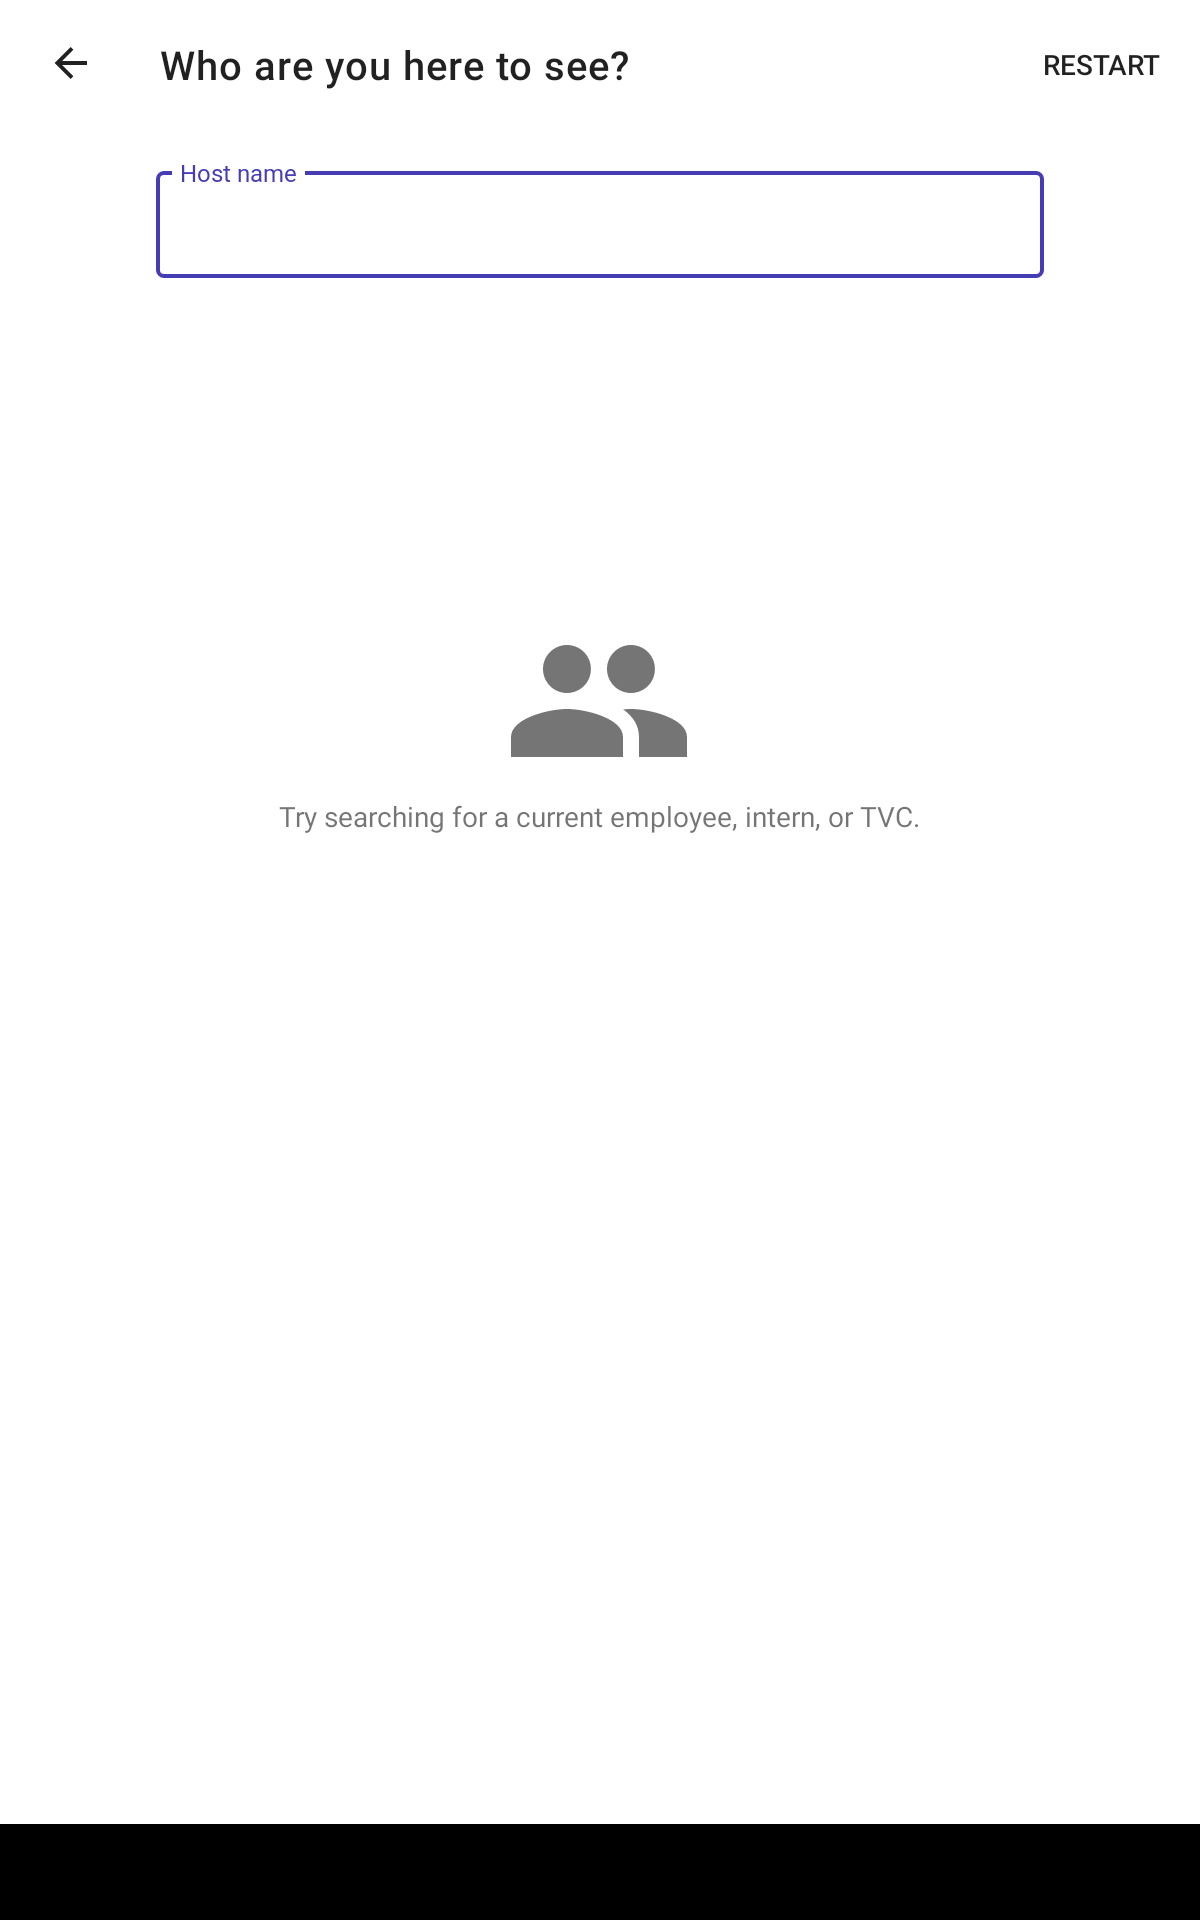
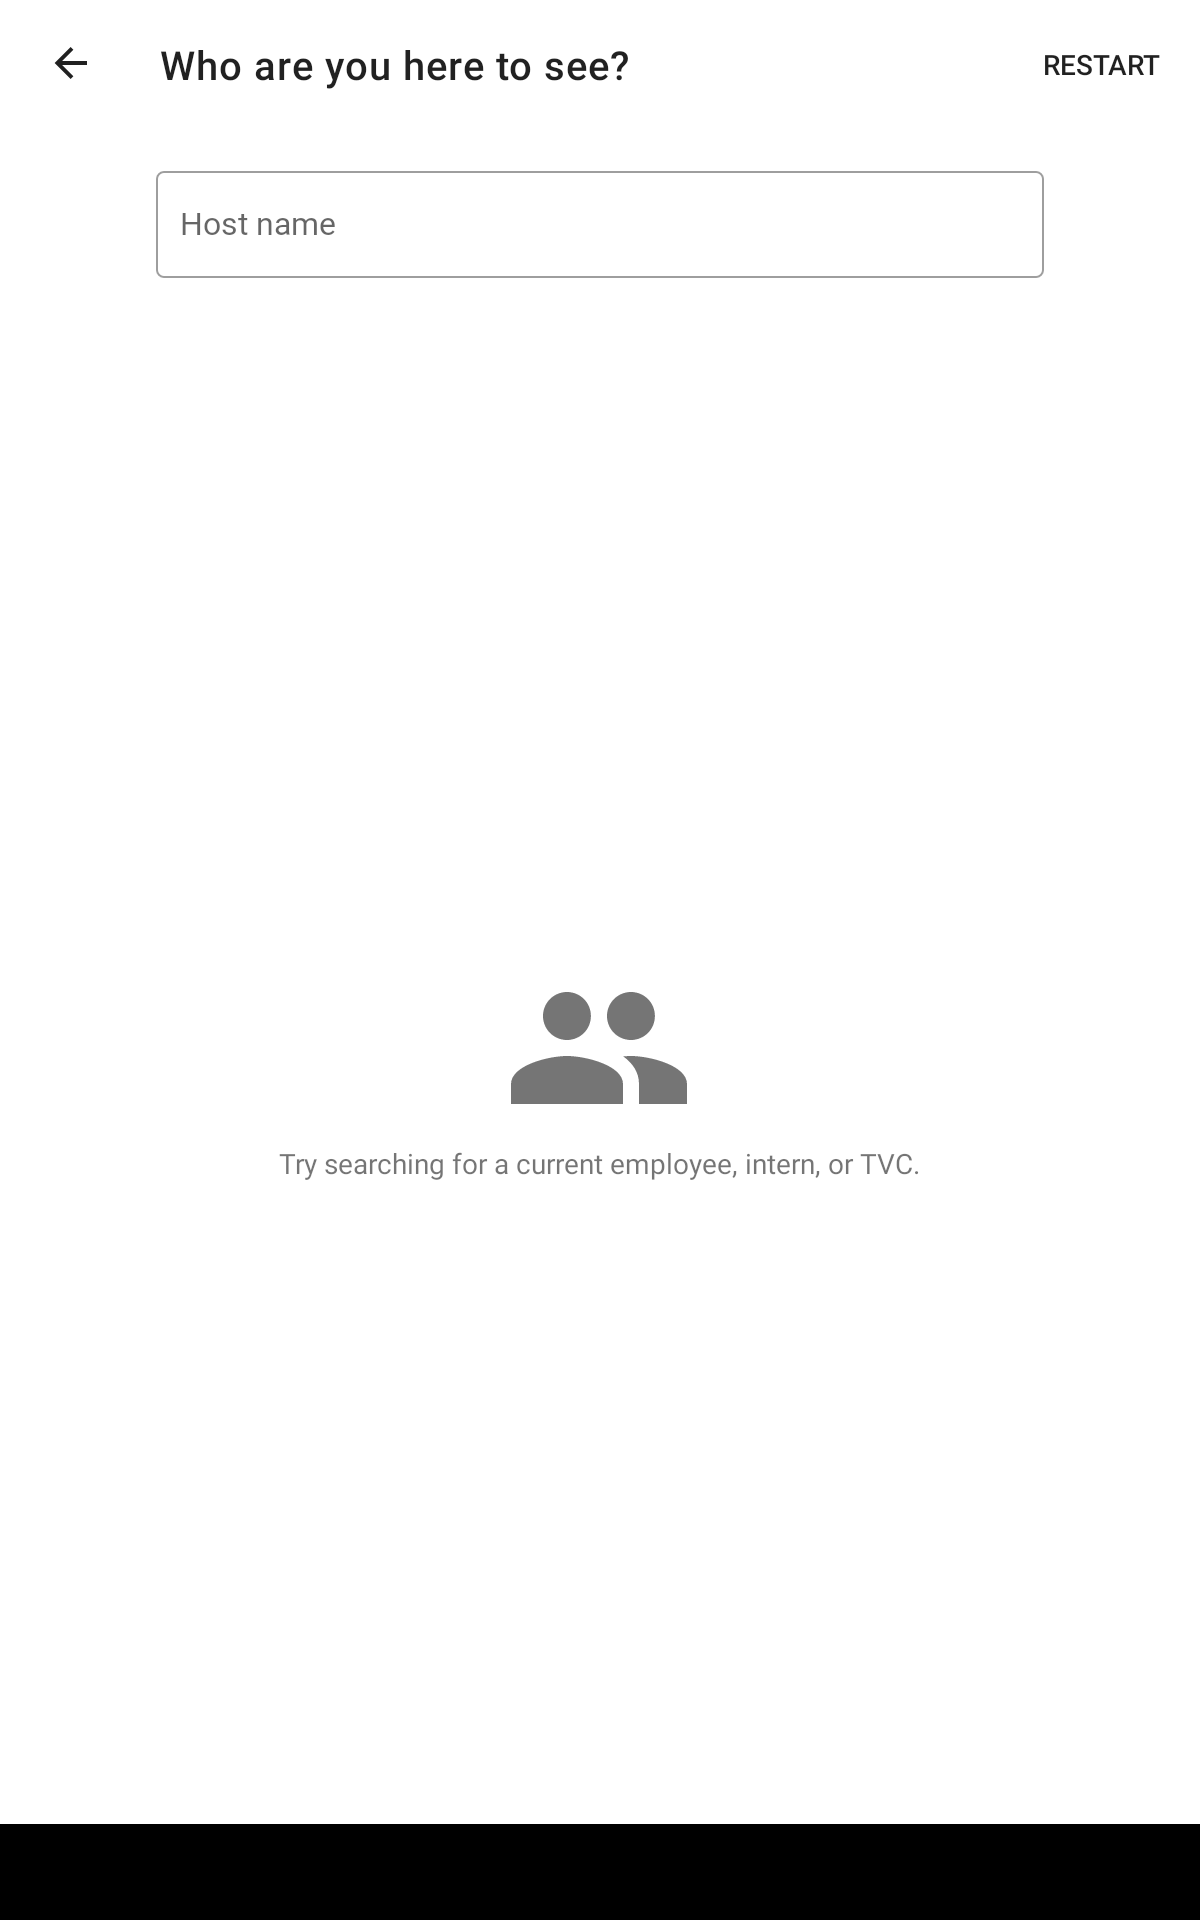
Hide keyboard during screenshot tests

diff --git a/app/src/androidTest/java/support/bymason/kiosk/checkin/helpers/Screenshots.kt b/app/src/androidTest/java/support/bymason/kiosk/checkin/helpers/Screenshots.kt
@@ -2,10 +2,13 @@ package support.bymason.kiosk.checkin.helpers
 
 import android.app.Activity
 import android.view.ViewGroup
+import android.view.ViewGroup.FOCUS_BLOCK_DESCENDANTS
 import android.widget.EditText
 import androidx.core.view.children
 import androidx.test.core.app.ActivityScenario
 import com.facebook.testing.screenshot.Screenshot
+import support.bymason.kiosk.checkin.core.ui.hideKeyboard
+import java.util.concurrent.Semaphore
 
 fun <T : Activity> ActivityScenario<T>.takeScreenshot() {
     lateinit var activity: Activity
@@ -13,7 +16,7 @@ fun <T : Activity> ActivityScenario<T>.takeScreenshot() {
         activity = it
     }
 
-    activity.hideCursors()
+    activity.stabilizeTests()
     Thread.sleep(750) // Wait for animations to finish
 
     // The automated screenshot naming is based off of stack trace analysis. We can't put this in
@@ -21,13 +24,31 @@ fun <T : Activity> ActivityScenario<T>.takeScreenshot() {
     Screenshot.snapActivity(activity).record()
 }
 
-private fun Activity.hideCursors() {
-    runOnUiThread { findViewById<ViewGroup>(android.R.id.content).hideCursors() }
+private fun Activity.stabilizeTests() {
+    val semaphore = Semaphore(0)
+    runOnUiThread {
+        findViewById<ViewGroup>(android.R.id.content).stabilizeTests()
+
+        semaphore.release()
+    }
+    semaphore.acquire()
+}
+
+private fun ViewGroup.stabilizeTests() {
+    hideCursors()
+    hideKeyboard()
 }
 
 private fun ViewGroup.hideCursors() {
     for (child in children) {
-        if (child is ViewGroup) child.hideCursors()
-        if (child is EditText) child.isCursorVisible = false
+        if (child is ViewGroup) {
+            child.descendantFocusability = FOCUS_BLOCK_DESCENDANTS
+            child.hideCursors()
+        }
+
+        if (child is EditText) {
+            child.clearFocus()
+            child.isCursorVisible = false
+        }
     }
 }
